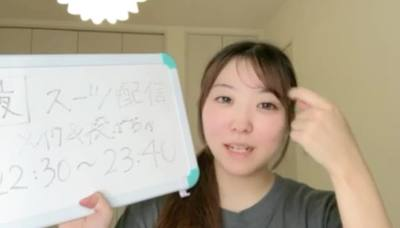
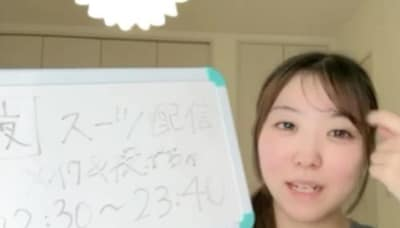
fix: 昼のサムネを顔寄りに切り、ボードの終了時刻を写さない
カード代表カットの右端に夜枠ボードが入っていたため、顔付近へ切り出した。
配信メモの本文は本人が言った 22:30 開始だけを残し、予定表の終了時刻は手入力のまま。

diff --git a/src/data/streamRecap20260904Day.ts b/src/data/streamRecap20260904Day.ts
@@ -128,7 +128,7 @@ export const streamRecap20260904Day: StreamRecap = {
     { timestamp: "0:19:40", label: "お昼終わり。夜はスーツ。バイバイ" },
   ],
   nextNote:
-    "同日 22:30〜 がスーツ配信です。夜はメイクする予定。バイトのため遅れる可能性があり、遅れたら連絡すると話しています。WEB投票とキラキラは継続。サイト予定表の夜枠終了は 23:30 のままです。",
+    "同日 22:30〜 がスーツ配信です。夜はメイクする予定。バイトのため遅れる可能性があり、遅れたら連絡すると話しています。WEB投票とキラキラは継続。",
   sourceLabel: "2026年9月4日 SHOWROOM昼配信（動画確認・オーナー提供）",
   verifiedAt: "2026-09-04",
   transcriptionNote:

diff --git a/docs/MEDIA.md b/docs/MEDIA.md
@@ -3067,6 +3067,6 @@ LIVE STREAM の三次2日目昼配信メモ専用。NEWS / Gallery / `media.ts` 
 ### 公開派生
 
 - 各JPEG: 400×228 / EXIF・IPTC・XMP・ICCなし
[2 lines of base64/hex data omitted]
 - LIVE STREAM 専用のため、480 / 960 / 1600 の Gallery 派生は作らない
 
